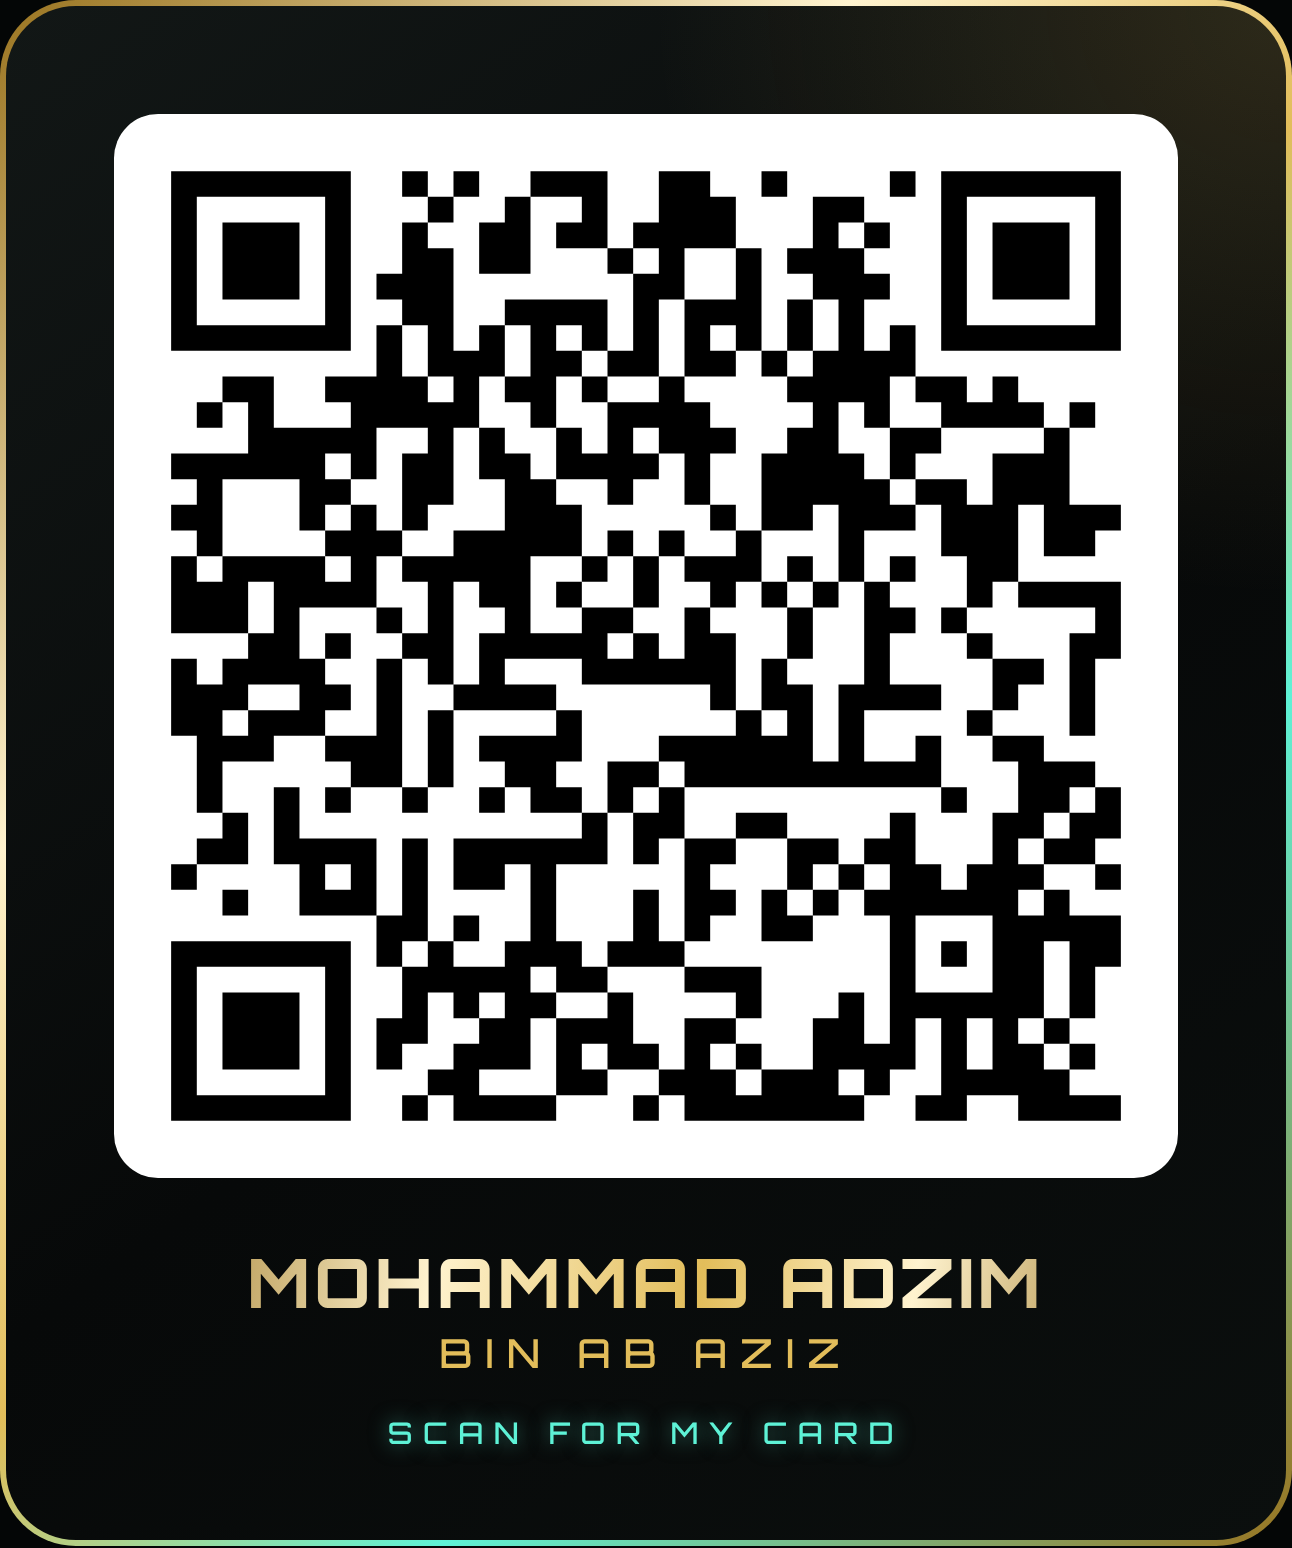
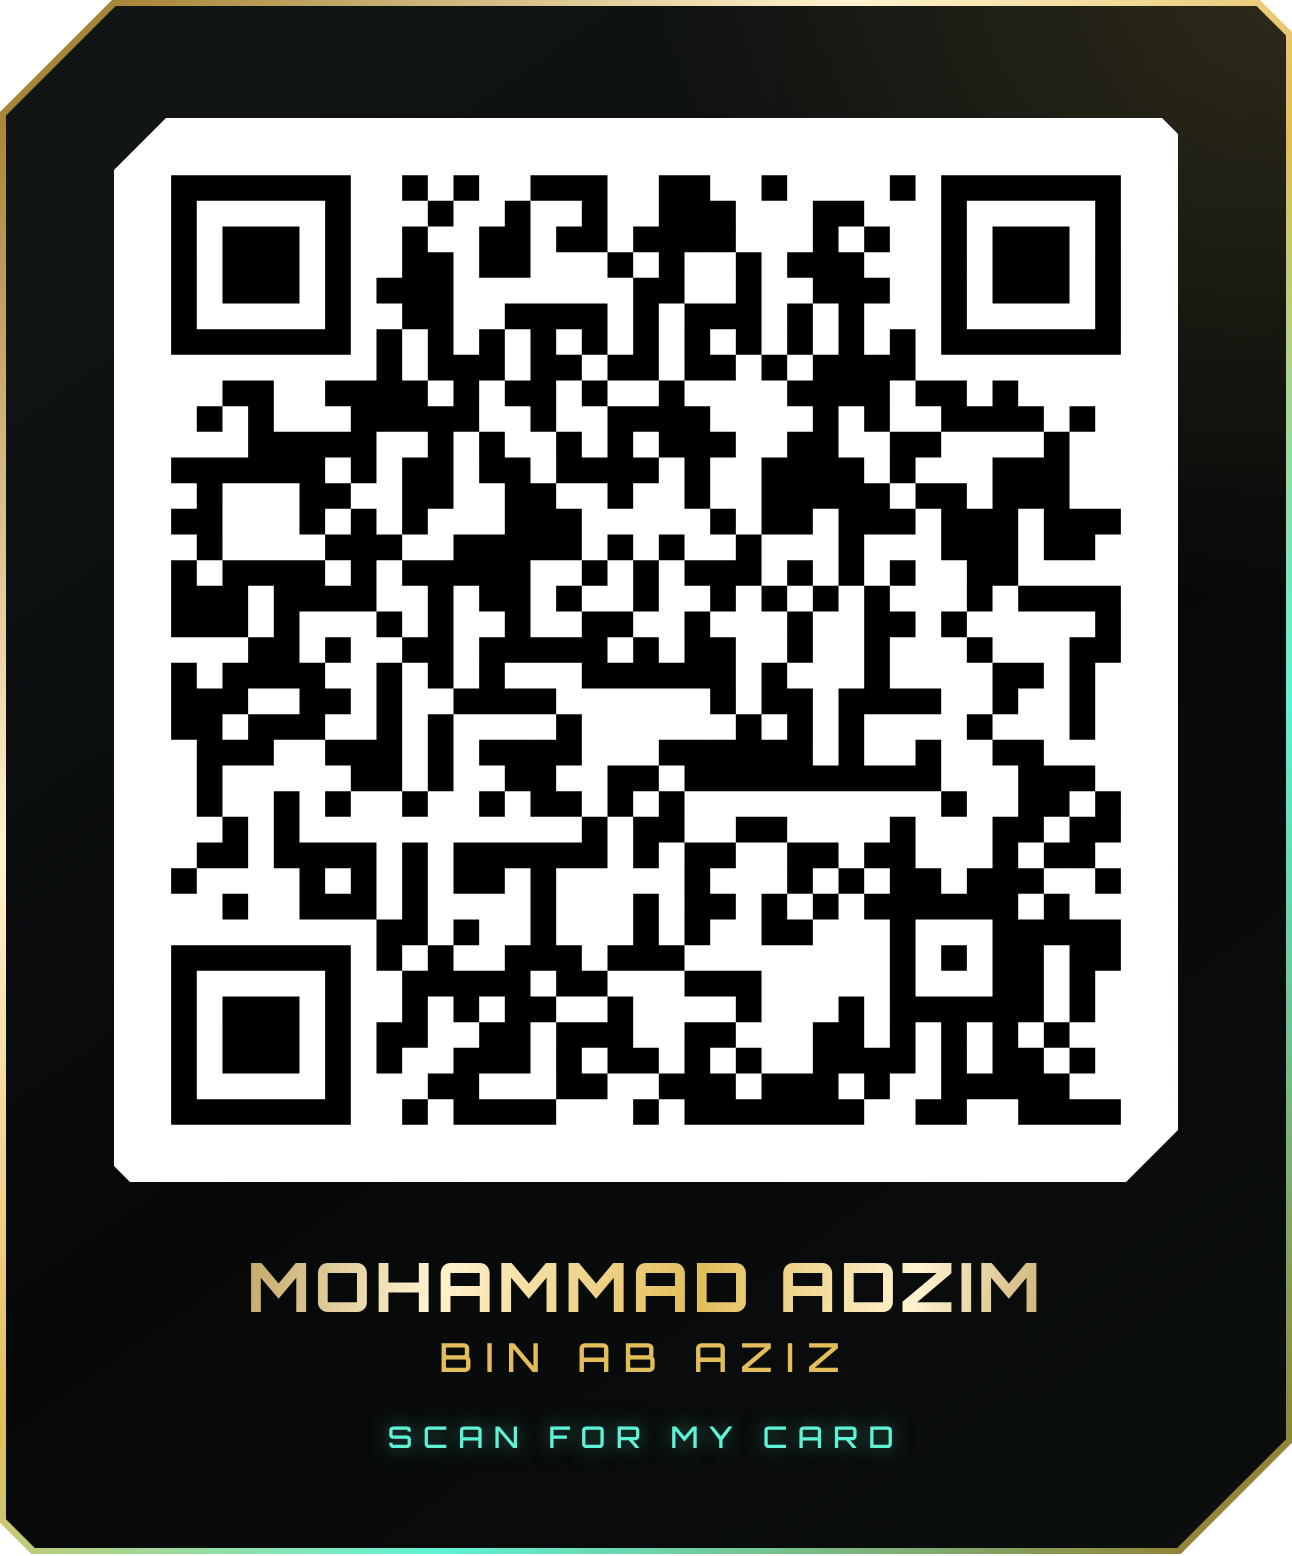
Chamfer-style card, buttons and QR; add portrait photo
Claude-Session: https://claude.ai/code/session_01BE9K3RxxrCd5MbdCsrYG6b

diff --git a/index.html b/index.html
@@ -60,19 +60,29 @@
   }
   @keyframes grid { to { background-position: 0 360px; } }
 
+  /* ---------- Chamfer (cut corners) ----------
+     --c = big cut (top-left & bottom-right), --s = small cut (top-right & bottom-left) */
+  .chamfer {
+    clip-path: polygon(
+      var(--c) 0, calc(100% - var(--s)) 0, 100% var(--s), 100% calc(100% - var(--c)),
+      calc(100% - var(--c)) 100%, var(--s) 100%, 0 calc(100% - var(--s)), 0 var(--c));
+  }
+
   /* ---------- Card ---------- */
-  .stage { perspective: 1200px; width: 100%; max-width: 440px; }
+  .stage {
+    perspective: 1200px; width: 100%; max-width: 440px;
+    filter: drop-shadow(0 28px 40px rgba(0,0,0,.75)) drop-shadow(0 0 22px rgba(226,189,90,.14));
+  }
   .card {
     --rx: 0deg; --ry: 0deg; --gx: 50%; --gy: 50%;
     position: relative;
     width: 100%;
     aspect-ratio: 3.5 / 2;
-    border-radius: 18px;
+    --c: 24px; --s: 8px;
     padding: 1.5px;                       /* room for the animated edge */
     transform: rotateX(var(--rx)) rotateY(var(--ry));
     transition: transform .25s ease-out;
     animation: enter 1.1s cubic-bezier(.2,.8,.2,1) backwards;
-    filter: drop-shadow(0 28px 40px rgba(0,0,0,.75)) drop-shadow(0 0 22px rgba(226,189,90,.12));
   }
   @keyframes enter {
     from { opacity: 0; transform: translateY(24px) rotateX(18deg) scale(.96); }
@@ -81,7 +91,6 @@
   /* rotating gold/cyan holographic edge */
   .edge {
     position: absolute; inset: 0;
-    border-radius: inherit;
     overflow: hidden;
   }
   .edge::before {
@@ -97,7 +106,8 @@
   .face {
     position: relative;
     height: 100%;
-    border-radius: 16.5px;
+    /* inner cut shrinks by 1.5px × (2 − √2) so the gold edge stays even on the diagonals */
+    --c: 23.1px; --s: 7.1px;
     overflow: hidden;
     background:
       radial-gradient(90% 120% at 100% 0%, rgba(226,189,90,.13), transparent 55%),
@@ -142,10 +152,11 @@
 
   /* tech corner brackets */
   .corner { position: absolute; width: 14px; height: 14px; border: 1.5px solid var(--gold-2); opacity: .7; pointer-events: none; }
-  .corner.tl { top: 10px; left: 10px; border-right: 0; border-bottom: 0; }
   .corner.tr { top: 10px; right: 10px; border-left: 0; border-bottom: 0; }
   .corner.bl { bottom: 10px; left: 10px; border-right: 0; border-top: 0; }
-  .corner.br { bottom: 10px; right: 10px; border-left: 0; border-top: 0; }
+  .cham { position: absolute; width: 50px; height: 50px; fill: none; stroke: var(--gold-2); stroke-width: 1.5; opacity: .75; pointer-events: none; }
+  .cham.tl { top: 0; left: 0; }
+  .cham.br { bottom: 0; right: 0; transform: rotate(180deg); }
 
   .content {
     position: relative;
@@ -221,6 +232,21 @@
     font-size: clamp(11px, 3.2vw, 14px);
     letter-spacing: .08em;
   }
+  /* portrait in a gold chamfered frame */
+  .photo {
+    --c: 14px; --s: 4px;
+    flex: none;
+    width: clamp(60px, 18vw, 80px); aspect-ratio: 1;
+    padding: 1.5px;
+    background: linear-gradient(135deg, var(--gold-3), var(--gold-1) 40%, var(--gold-2) 65%, rgba(94,242,214,.9));
+  }
+  .photo img {
+    --c: 13.1px; --s: 3.1px;
+    display: block; width: 100%; height: 100%;
+    object-fit: cover;
+    filter: saturate(.92) contrast(1.05);
+  }
+
   .rule {
     height: 1px;
     width: 42%;
@@ -256,30 +282,47 @@
     animation: fade 1s ease 0.8s both;
   }
   .save, .wa {
+    --c: 14px; --s: 0px;
+    position: relative;
+    isolation: isolate;
     width: 100%;
     display: inline-flex; align-items: center; justify-content: center; gap: 10px;
     text-decoration: none;
     font: 700 15px/1 "Rajdhani", system-ui, sans-serif;
     letter-spacing: .22em;
     text-transform: uppercase;
-    padding: 15px 22px;
-    border-radius: 12px;
-    border: 1px solid rgba(226,189,90,.55);
-    background: rgba(226,189,90,.06);
+    padding: 16px 22px;
+    border: 0;
+    background: rgba(226,189,90,.6);        /* shows through as the 1px outline */
     color: var(--gold-1);
     cursor: pointer;
     -webkit-tap-highlight-color: transparent;
   }
+  .save::before {
+    content: "";
+    position: absolute; inset: 1px;
+    --c: 13.6px;
+    background: linear-gradient(rgba(226,189,90,.07), rgba(226,189,90,.07)), #0a0c0b;
+    z-index: -1;
+  }
   .wa {
-    border-color: transparent;
     background: linear-gradient(100deg, var(--gold-3), var(--gold-1) 45%, var(--gold-2));
     color: #0a0d0c;
-    animation: glow 2.6s ease-in-out 2s infinite;
+  }
+  .wa::after {
+    content: "";
+    position: absolute; inset: 0;
+    background: linear-gradient(110deg, transparent 35%, rgba(255,255,255,.6) 50%, transparent 65%);
+    background-size: 300% 100%;
+    animation: btn-shine 3.2s ease-in-out 2s infinite;
+    pointer-events: none;
+    z-index: -1;                           /* behind the label */
   }
   .wa svg { width: 19px; height: 19px; fill: currentColor; flex: none; }
-  @keyframes glow {
-    0%, 100% { box-shadow: 0 0 0 0 rgba(226,189,90,.45); }
-    50%      { box-shadow: 0 0 0 10px rgba(226,189,90,0); }
+  @keyframes btn-shine {
+    0%   { background-position: 100% 0; }
+    50%  { background-position: 0% 0; }
+    100% { background-position: 0% 0; }
   }
   .save:active, .wa:active { transform: scale(.97); }
   @keyframes fade { from { opacity: 0; transform: translateY(8px); } to { opacity: 1; transform: none; } }
@@ -288,6 +331,9 @@
   @media (max-width: 340px) {
     .tagline { display: none; }
     .content { padding-left: 10%; }
+    .photo { width: 52px; }
+    .name { font-size: 13.5px; }
+    .role { font-size: 9.5px; letter-spacing: .1em; }
   }
 
   /* short screens (landscape phones) */
@@ -298,7 +344,7 @@
   }
 
   @media (prefers-reduced-motion: reduce) {
-    .card, .face::after, .edge::before, .gold, .actions, .wa, body::before, .rule::after { animation: none !important; }
+    .card, .face::after, .edge::before, .gold, .actions, .wa::after, body::before, .rule::after { animation: none !important; }
     .card { transition: none; }
   }
   @media print {
@@ -307,8 +353,9 @@
     body { height: auto; overflow: visible; padding: 0; display: block; }
     body::before, .actions { display: none; }
     .stage { max-width: none; perspective: none; }
-    .card { width: 3.5in; height: 2in; padding: 0; filter: none; transform: none; animation: none; }
-    .face { border-radius: 0; -webkit-print-color-adjust: exact; print-color-adjust: exact; }
+    .stage { filter: none; }
+    .card { width: 3.5in; height: 2in; padding: 0; transform: none; animation: none; }
+    .face { -webkit-print-color-adjust: exact; print-color-adjust: exact; }
     .face::after, .edge { display: none; }
     .gold { animation: none; }
   }
@@ -316,11 +363,13 @@
 </head>
 <body>
   <div class="stage">
-    <article class="card" id="card">
+    <article class="card chamfer" id="card">
       <div class="edge"></div>
-      <div class="face">
+      <div class="face chamfer">
         <div class="glare"></div>
-        <i class="corner tl"></i><i class="corner tr"></i><i class="corner bl"></i><i class="corner br"></i>
+        <svg class="cham tl" viewBox="0 0 50 50" aria-hidden="true"><path d="M10 46V27.3L27.3 10H46"/></svg>
+        <svg class="cham br" viewBox="0 0 50 50" aria-hidden="true"><path d="M10 46V27.3L27.3 10H46"/></svg>
+        <i class="corner tr"></i><i class="corner bl"></i>
         <div class="content">
           <div class="top">
             <div>
@@ -328,7 +377,8 @@
               <div class="role" id="role"></div>
               <div class="company" id="company"></div>
             </div>
-            <div class="monogram"><span class="gold" id="monogram"></span></div>
+            <div class="photo chamfer" id="photo"><img class="chamfer" id="photoImg" alt=""></div>
+            <div class="monogram" id="monogramBox"><span class="gold" id="monogram"></span></div>
           </div>
           <div>
             <div class="rule"></div>
@@ -341,11 +391,11 @@
   </div>
 
   <div class="actions">
-    <a class="wa" id="wa" target="_blank" rel="noopener">
+ <a class="wa chamfer" id="wa" target="_blank" rel="noopener">
       <svg viewBox="0 0 24 24" aria-hidden="true"><path d="M12 2a10 10 0 0 0-8.6 15.1L2 22l5-1.3A10 10 0 1 0 12 2zm0 18.2a8.2 8.2 0 0 1-4.2-1.2l-.3-.2-3 .8.8-2.9-.2-.3A8.2 8.2 0 1 1 12 20.2zm4.5-6.1c-.2-.1-1.5-.7-1.7-.8-.2-.1-.4-.1-.6.1l-.8 1c-.1.2-.3.2-.5.1a6.7 6.7 0 0 1-3.3-2.9c-.3-.4.3-.4.7-1.4.1-.2 0-.3 0-.4l-.8-1.8c-.2-.5-.4-.4-.6-.4h-.5a1 1 0 0 0-.7.3 3 3 0 0 0-.9 2.2 5.2 5.2 0 0 0 1.1 2.7 11.8 11.8 0 0 0 4.5 4c1.7.7 2.4.8 3.2.7.5-.1 1.5-.6 1.8-1.2.2-.6.2-1.1.1-1.2l-.5-.3z"/></svg>
       WhatsApp me now
     </a>
-    <button class="save" id="save">Save contact</button>
+    <button class="save chamfer" id="save">Save contact</button>
   </div>
 
 <script>
@@ -364,6 +414,14 @@
   $("role").textContent = c.title || "";
   $("company").textContent = c.company || "";
   $("monogram").textContent = c.monogram || fullName.split(/\s+/).map((w) => w[0]).slice(0, 2).join("");
+  // Show the photo when there is one, otherwise the monogram
+  if (c.photo) {
+    $("photoImg").src = c.photo;
+    $("photoImg").alt = fullName;
+    $("monogramBox").remove();
+  } else {
+    $("photo").remove();
+  }
   $("tagline").textContent = c.tagline || "";
   if (!c.tagline) $("tagline").remove();
 

diff --git a/config.js b/config.js
@@ -13,6 +13,7 @@ window.CARD = {
   website: "",
   address: "Klang, Selangor",
   linkedin: "",
-  tagline: "Turning power generation data into decisions.",
-  monogram: "MA",
+  tagline: "",                   // e.g. "Turning power generation data into decisions."
+  monogram: "MA",               // shown only when there is no photo
+  photo: "photo.jpg",
 };
